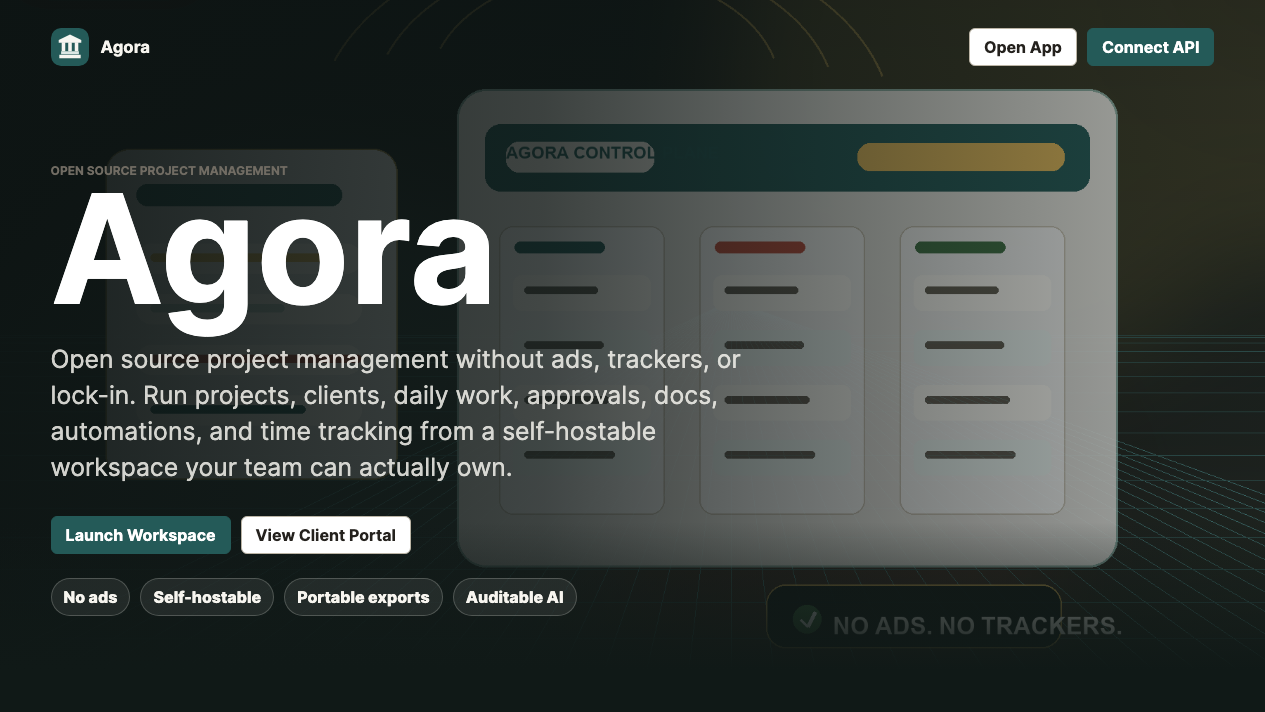
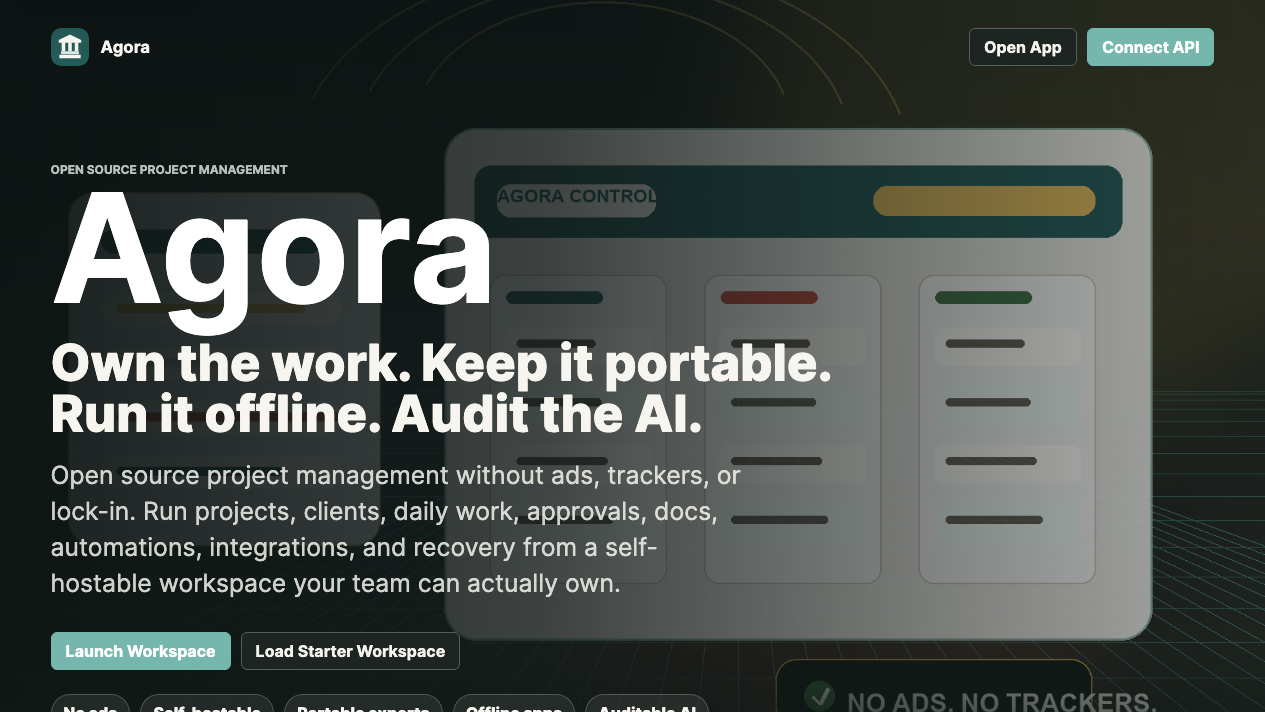
Refresh Acme demo launch assets

diff --git a/scripts/capture-screenshots.js b/scripts/capture-screenshots.js
@@ -13,18 +13,16 @@ const CHROME_TIMEOUT_MS = Number(process.env.AGORA_SCREENSHOT_TIMEOUT_MS || 3000
 const ROUTE_WAIT_MS = Number(process.env.AGORA_SCREENSHOT_WAIT_MS || 5000);
 
 const captures = [
-  { route: "landing", file: "agora-landing.png", width: 1265, height: 712 },
-  { route: "dashboard", file: "agora-dashboard.png", width: 1265, height: 712 },
-  { route: "launch", file: "agora-launch-flow.png", width: 1265, height: 712 },
-  { route: "readiness", file: "agora-readiness.png", width: 1265, height: 712 },
-  { route: "board", file: "agora-board.png", width: 1265, height: 712 },
-  { route: "inbox", file: "agora-inbox.png", width: 1265, height: 712 },
-  { route: "marketplace", file: "agora-marketplace.png", width: 1265, height: 712 },
-  { route: "data", file: "agora-data.png", width: 1265, height: 712 },
-  { route: "settings", file: "agora-settings.png", width: 1265, height: 712 },
-  { route: "launch", file: "agora-mobile-launch.png", width: 500, height: 844 },
-  { route: "readiness", file: "agora-mobile-readiness.png", width: 500, height: 844 },
-  { route: "daily", file: "agora-mobile-today.png", width: 500, height: 844 }
+  { route: "landing", file: "agora-landing.png", width: 1265, height: 712, expectedText: ["Agora"] },
+  { route: "command-center", query: { demoAction: "sampleAgencyWorkspace" }, file: "agora-acme-command-center.png", width: 1265, height: 712, expectedText: ["PM command center", "Client promises"] },
+  { route: "project-backlog", file: "agora-acme-project-backlog.png", width: 1265, height: 712, expectedText: ["Backlog projects", "Project intake"] },
+  { route: "visibility", file: "agora-acme-client-visibility.png", width: 1265, height: 712, expectedText: ["Client visibility review", "Visibility warnings"] },
+  { route: "project", query: { project: "launch", tab: "timeline" }, file: "agora-acme-timeline-risk.png", width: 1265, height: 712, expectedText: ["Timeline", "Gantt"] },
+  { route: "reports", file: "agora-acme-client-update.png", width: 1265, height: 712, expectedText: ["Status report", "Delivery risk"] },
+  { route: "data", query: { demoAction: "recoveryPlan" }, file: "agora-acme-recovery-proof.png", width: 1265, height: 712, expectedText: ["Recovery confidence", "Portable workspace OS"] },
+  { route: "permissions", file: "permissions-audit-desktop.png", width: 1265, height: 712, expectedText: ["Role and Operator audit", "Operator guardrails"] },
+  { route: "operator", file: "operator-trust-desktop.png", width: 1265, height: 712, expectedText: ["Operator workspace", "Trust and context"] },
+  { route: "daily", file: "agora-mobile-today.png", width: 500, height: 844, expectedText: ["Today"] }
 ];
 
 main().catch((error) => {
@@ -44,7 +42,7 @@ async function main() {
 
   try {
     for (const capture of captures) {
-      const url = `${server.baseUrl}/?route=${encodeURIComponent(capture.route)}&screenshot=${Date.now()}`;
+      const url = buildCaptureUrl(server.baseUrl, capture);
       const dom = await runChrome(chromePath, [
         "--headless=new",
         "--disable-gpu",
@@ -105,9 +103,20 @@ function assertRouteRendered(capture, dom) {
   if (normalized.includes("could not render") || normalized.includes("view error")) {
     throw new Error(`Route ${capture.route} rendered an error state`);
   }
-  if (!normalized.includes(`>${routeTitle(capture.route).toLowerCase()}<`)) {
-    throw new Error(`Route ${capture.route} did not render the expected title`);
+  const missing = (capture.expectedText || [routeTitle(capture.route)]).filter((text) => !normalized.includes(String(text).toLowerCase()));
+  if (missing.length) {
+    throw new Error(`Route ${capture.route} did not render expected screenshot text: ${missing.join(", ")}`);
   }
+}
+
+function buildCaptureUrl(baseUrl, capture) {
+  const url = new URL(baseUrl);
+  url.searchParams.set("route", capture.route);
+  Object.entries(capture.query || {}).forEach(([key, value]) => {
+    url.searchParams.set(key, String(value));
+  });
+  url.searchParams.set("screenshot", String(Date.now()));
+  return url.toString();
 }
 
 function routeTitle(route) {

diff --git a/docs/demo-video-production-checklist.md b/docs/demo-video-production-checklist.md
@@ -1,0 +1,41 @@
+# Demo Video Production Checklist
+
+Use this checklist when recording the 75 to 120 second Acme launch demo. The script lives in [`demo-video-script.md`](./demo-video-script.md); this file is the production checklist for capture, edit, export, and release evidence.
+
+## Preflight
+
+- Run `npm run demo:check`.
+- Run `AGORA_GOLDEN_SUITE=demo npm run test:golden`.
+- Run `npm run screenshots` and confirm the Acme screenshot files changed intentionally.
+- Use the hosted demo URL only after following [`hosted-demo-runbook.md`](./hosted-demo-runbook.md).
+- Use a clean browser profile with no extensions, bookmarks bar, private tokens, local paths, or personal emails visible.
+
+## Recording Setup
+
+- Desktop viewport: `1440 x 1000` or close.
+- Mobile cutaway viewport: `390 x 844` only if needed.
+- Start URL: `?route=landing`.
+- Main story URL sequence: the six routes in [`acme-client-launch-demo.md`](./acme-client-launch-demo.md).
+- Target length: 75 to 120 seconds.
+- Export filename: `assets/videos/agora-acme-client-launch-demo.mp4` when video assets are added to the repo or release bundle.
+
+## Shot List
+
+| Shot | Route | Goal | Max Time |
+| --- | --- | --- | --- |
+| Opening promise | `?route=landing` | No ads, no trackers, no lock-in. | 8s |
+| Triage request | `?route=command-center&demoAction=sampleAgencyWorkspace` | PM morning view and client promises. | 14s |
+| Scope project | `?route=project-backlog` | Intake becomes scoped delivery work. | 14s |
+| Review approvals | `?route=visibility` | Client-safe sharing and approval warnings. | 16s |
+| Inspect risk | `?route=project&project=launch&tab=timeline` | Timeline, Gantt, dependency risk. | 16s |
+| Client update | `?route=reports` | Copyable status report. | 16s |
+| Recovery proof | `?route=data&demoAction=recoveryPlan` | Export, backup, restore proof. | 14s |
+| Trust close | `?route=permissions` | Role and Operator audit. | 10s |
+
+## Acceptance
+
+- The video shows one Acme story, not a feature inventory.
+- Each screen appears long enough to read the main heading and one proof label.
+- The voiceover mentions open source, local-first control, client-safe approvals, reports, and portable recovery.
+- No secrets, real customer data, personal email, browser extension UI, or local filesystem paths are visible.
+- The release candidate doc links the final hosted demo URL and video asset location before tagging.

diff --git a/docs/screenshot-demo-plan.md b/docs/screenshot-demo-plan.md
@@ -40,13 +40,17 @@ The script fails if a route does not boot, renders "could not render", or writes
 
 ## Current Launch Set
 
-These checked-in screenshots are ready for README, landing-page proof, and launch planning:
+These checked-in screenshots are the automated Acme launch set for README, landing-page proof, launch planning, and PWA metadata:
 
 - `assets/screenshots/agora-landing.png`
-- `assets/screenshots/agora-dashboard.png`
-- `assets/screenshots/agora-board.png`
-- `assets/screenshots/agora-inbox.png`
-- `assets/screenshots/agora-marketplace.png`
+- `assets/screenshots/agora-acme-command-center.png`
+- `assets/screenshots/agora-acme-project-backlog.png`
+- `assets/screenshots/agora-acme-client-visibility.png`
+- `assets/screenshots/agora-acme-timeline-risk.png`
+- `assets/screenshots/agora-acme-client-update.png`
+- `assets/screenshots/agora-acme-recovery-proof.png`
+- `assets/screenshots/permissions-audit-desktop.png`
+- `assets/screenshots/operator-trust-desktop.png`
 - `assets/screenshots/agora-mobile-today.png`
 
 ## Canonical Acme Launch Set
@@ -248,7 +252,7 @@ Use for:
 
 Target length: 75 to 120 seconds.
 
-Use [`docs/demo-video-script.md`](./demo-video-script.md) for the full time-coded script, route list, voiceover, and editing notes.
+Use [`docs/demo-video-script.md`](./demo-video-script.md) for the full time-coded script, route list, voiceover, and editing notes. Use [`demo-video-production-checklist.md`](./demo-video-production-checklist.md) to capture, QA, and release the short video.
 
 1. Landing: "Agora is open source project management without ads or lock-in."
 2. Command Center: triage the Acme client request.

diff --git a/README.md b/README.md
@@ -6,7 +6,7 @@ Open source, local-first project management for client-facing teams without ads,
 
 Agora is a self-hostable project command center for agencies and consultants running client work with portals, approvals, reusable workflows, time tracking, auditable AI, and portable data. It is inspired by tools like Asana and Nifty, but designed for teams that need ownership of their workflow as much as they need visibility.
 
-![Agora dashboard screenshot](./assets/screenshots/agora-dashboard.png)
+![Agora Acme command center screenshot](./assets/screenshots/agora-acme-command-center.png)
 
 ## Who Agora Is For
 
@@ -18,9 +18,9 @@ See the [product readiness roadmap](./docs/product-readiness-roadmap.md) for the
 
 ## Product Snapshot
 
-| Workspace command center | Project board | Marketplace |
+| Acme command center | Project backlog | Client visibility |
 | --- | --- | --- |
-| ![Agora dashboard](./assets/screenshots/agora-dashboard.png) | ![Agora board](./assets/screenshots/agora-board.png) | ![Agora marketplace](./assets/screenshots/agora-marketplace.png) |
+| ![Agora command center](./assets/screenshots/agora-acme-command-center.png) | ![Agora project backlog](./assets/screenshots/agora-acme-project-backlog.png) | ![Agora client visibility](./assets/screenshots/agora-acme-client-visibility.png) |
 
 Agora currently covers the core loop: plan work, move tasks, triage inbox signals, capture project memory, preview Autopilot recovery proposals, share client-safe status, install templates and automations, export the workspace, and connect an optional API when browser-local storage is not enough.
 

diff --git a/docs/release-candidate-v0.1-beta.md b/docs/release-candidate-v0.1-beta.md
@@ -18,6 +18,7 @@ Paste command output or link CI artifacts for the exact commit being released.
 | --- | --- | --- |
 | Release discipline | `npm run release:check` | Pending for release commit |
 | Hosted demo | `npm run demo:check` | Pending for release commit |
+| Screenshots | `npm run screenshots` and inspect Acme screenshot set | Pending for release commit |
 | Packaging | `npm run package:check` | Pending for release commit |
 | Trust evidence | `npm run trust` | Pending for release commit |
 | QA | `npm run qa` | Pending for release commit |
@@ -36,7 +37,7 @@ Required before publishing:
 - Run `npm run demo:check`.
 - Run `AGORA_GOLDEN_SUITE=demo npm run test:golden`.
 - Refresh the screenshots named in [`screenshot-demo-plan.md`](./screenshot-demo-plan.md).
-- Record or re-record the short demo using [`demo-video-script.md`](./demo-video-script.md).
+- Record or re-record the short demo using [`demo-video-script.md`](./demo-video-script.md) and [`demo-video-production-checklist.md`](./demo-video-production-checklist.md).
 - Confirm the hosted demo contains no real customer data, secrets, private emails, or paid-provider credentials.
 
 ## Platform Evidence

diff --git a/docs/demo-video-script.md b/docs/demo-video-script.md
@@ -1,6 +1,6 @@
 # Agora Demo Video Script
 
-Use this script for a 75 to 120 second launch demo. Keep the pacing calm: the point is to show that Agora is already a real workspace, not to tour every feature. The default story is Acme Studio taking one client request from intake to recovery proof. Use [`acme-client-launch-demo.md`](./acme-client-launch-demo.md) as the canonical route handoff.
+Use this script for a 75 to 120 second launch demo. Keep the pacing calm: the point is to show that Agora is already a real workspace, not to tour every feature. The default story is Acme Studio taking one client request from intake to recovery proof. Use [`acme-client-launch-demo.md`](./acme-client-launch-demo.md) as the canonical route handoff and [`demo-video-production-checklist.md`](./demo-video-production-checklist.md) for capture QA.
 
 ## Recording Setup
 
